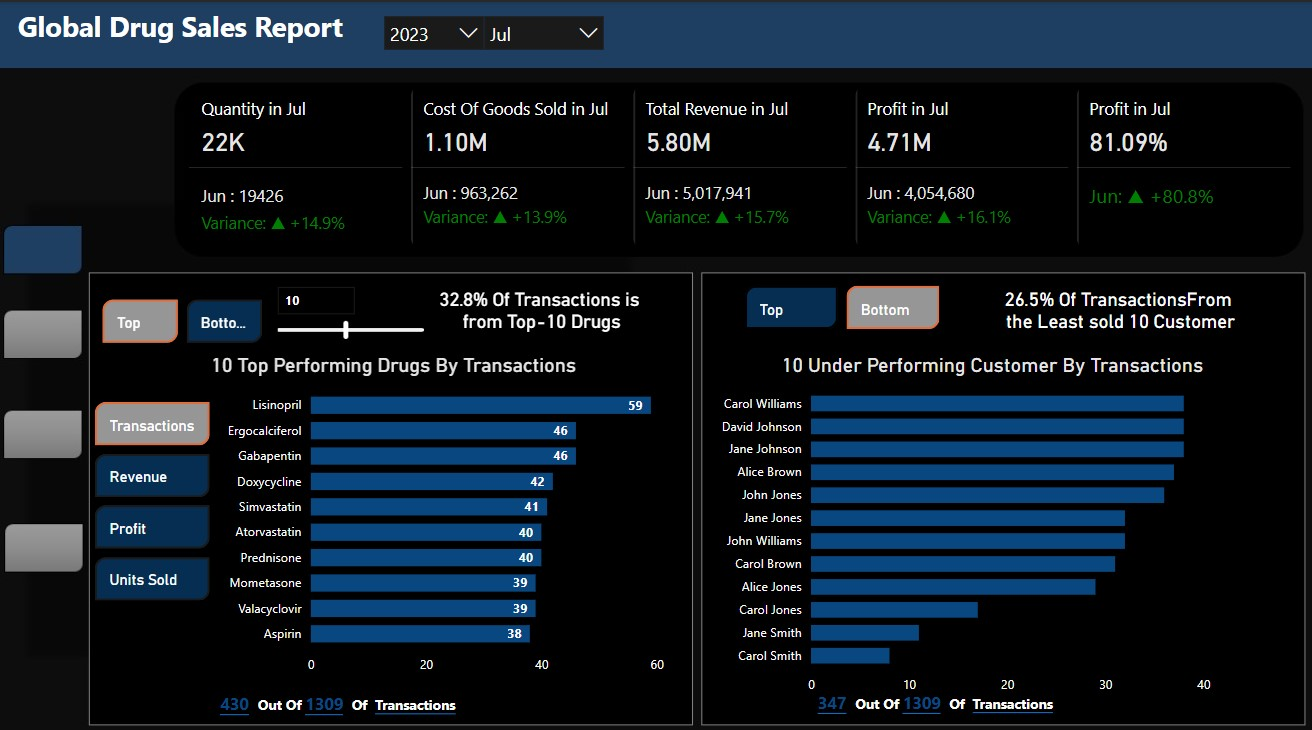
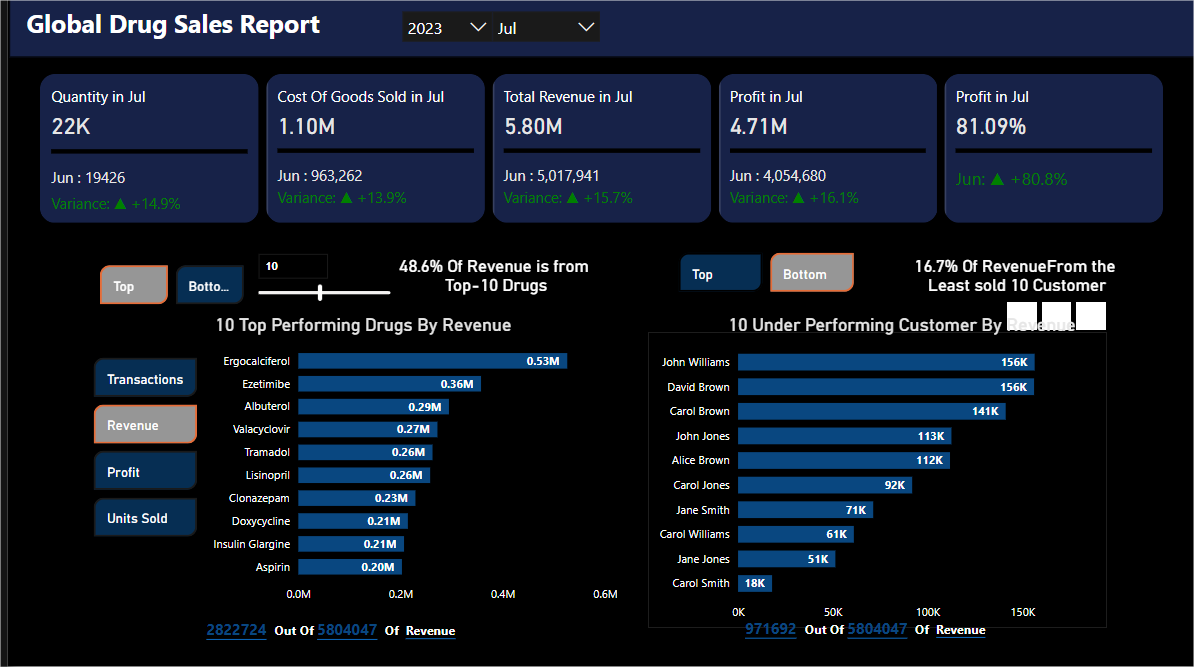
Add files via upload

diff --git a/Global-drug-sales-Report.html b/Global-drug-sales-Report.html
@@ -64,7 +64,7 @@ in record time">
                   <div class="u-align-left u-container-align-left u-container-style u-layout-cell u-left-cell u-size-60 u-layout-cell-1">
                     <div class="u-container-layout u-valign-middle u-container-layout-1">
                       <div class="custom-expanded u-border-9 u-border-palette-2-light-1 u-clearfix u-custom-html u-custom-html-1">
-                        <iframe title="pharma drug sales" width="800" height="486" src="https://app.powerbi.com/view?r=eyJrIjoiNDFkZTk0NzgtZGM4Yy00MDVlLWEyODctOGJmZjZiYTQ3ZTkxIiwidCI6ImRmODY3OWNkLWE4MGUtNDVkOC05OWFjLWM4M2VkN2ZmOTVhMCJ9" frameborder="0" allowFullScreen="true"></iframe>
+                        <iframe title="pharma drug sales" width="800" height="486" src="https://app.powerbi.com/view?r=eyJrIjoiM2Y5OWFlNDgtZTlkZi00Nzg1LWI3YTQtY2JhMzJhNmM0NTc3IiwidCI6ImRmODY3OWNkLWE4MGUtNDVkOC05OWFjLWM4M2VkN2ZmOTVhMCJ9" frameborder="0" allowFullScreen="true"></iframe>
                       </div>
                     </div>
                   </div>
